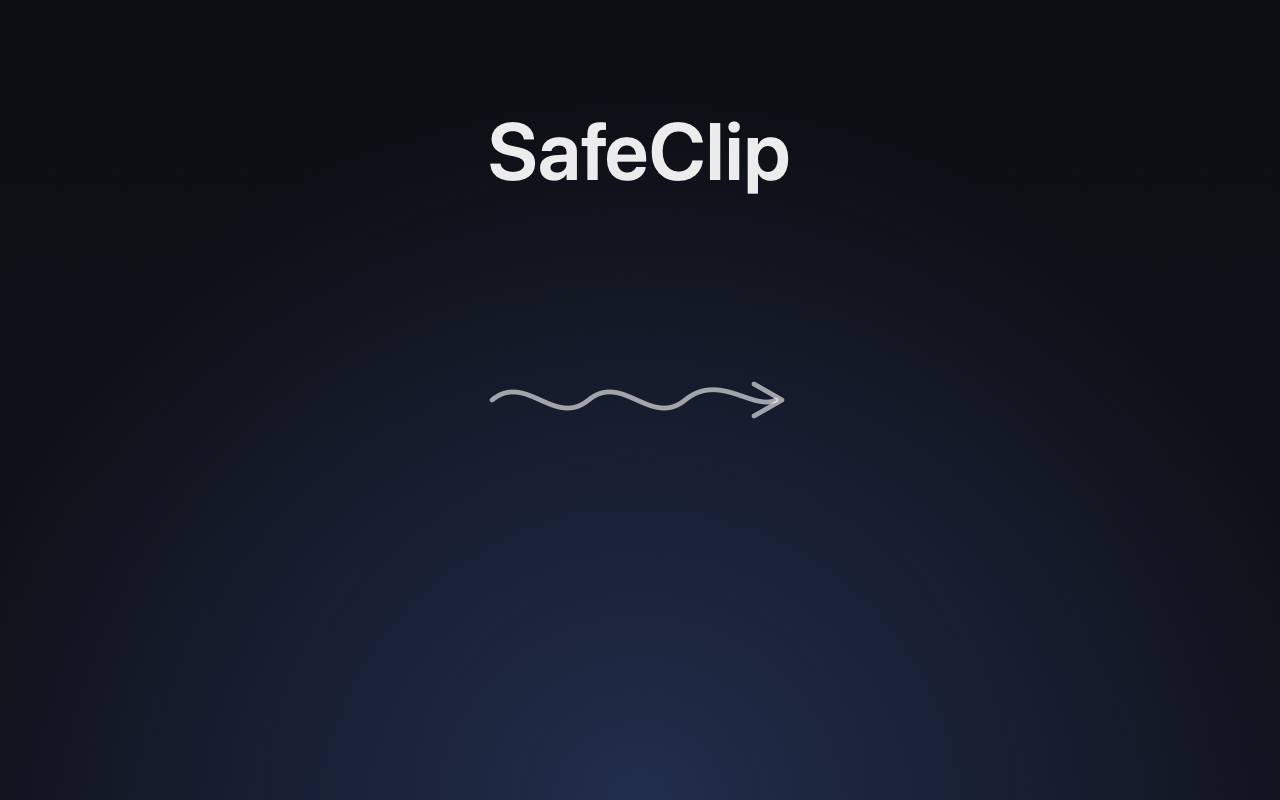
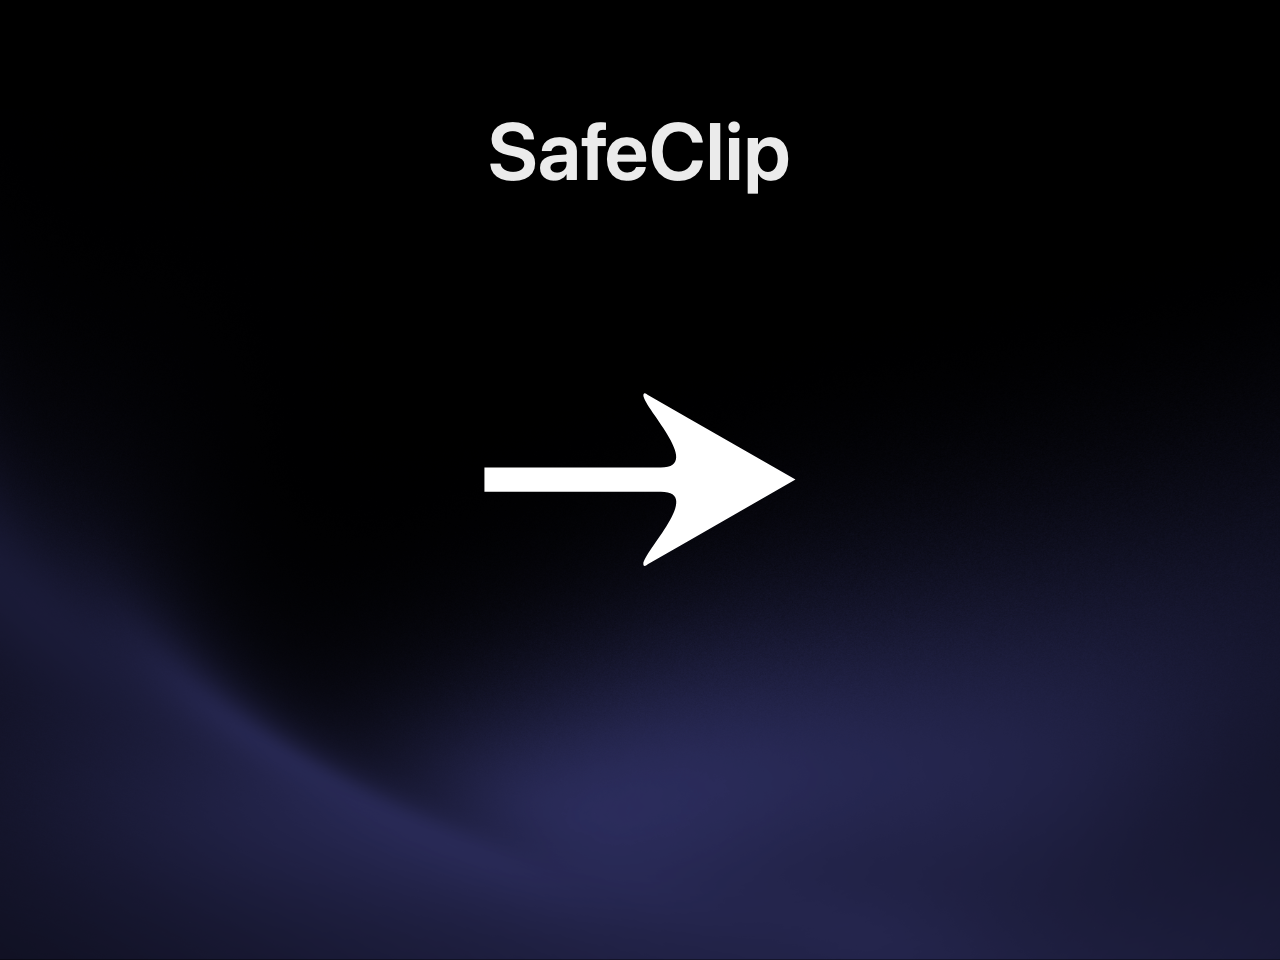
DMG: 4:3 installer window + owner's hand-made background
Take the styled .dmg window from 640×400 (16:10) to a 640×480 pt content area
(exact 4:3), with the icon row dropped to the true vertical centre. release.sh
window bounds → {200,120,840,628} and icon positions → {160,240}/{480,240};
dmg_background.swift geometry → H 480 / iconCenterY 240, kept in lockstep.

The committed background is now the owner's hand-made artwork (solid arrow +
glow) with the "SafeClip" wordmark composited on in the system font (SF Pro
semibold), matching the previous generator's font/size/position. Noted in the
generator header that running it overwrites the hand-made art.

Changed region(s): [[0.125, 0.125, 0.8125, 0.75], [0.4375, 0.7188, 0.9062, 0.875], [0.0, 0.5625, 0.375, 0.9062]]

diff --git a/Scripts/dmg_background.swift b/Scripts/dmg_background.swift
@@ -1,8 +1,14 @@
 #!/usr/bin/swift
-// Renders the SafeClip .dmg background image used by Scripts/release.sh when it
-// lays out the installer window (the "drag SafeClip → Applications" canvas).
-// Output is deterministic and committed to the repo (Scripts/assets/), so it's
-// reviewable and the release script never depends on a design tool.
+// Renders a SafeClip .dmg background image for Scripts/release.sh's installer
+// window (the "drag SafeClip → Applications" canvas).
+//
+// ⚠ HEADS UP: the committed Scripts/assets/dmg-background@2x.png is now the
+// OWNER'S HAND-MADE artwork (a solid arrow + glow, with the "SafeClip" wordmark
+// composited on in the system font). Running this script OVERWRITES it with the
+// schematic squiggle-arrow version — only do that if you deliberately want to
+// replace the hand-made art. This file is kept accurate mainly as the geometry
+// source of truth (W/H + icon centres) that MUST stay in lockstep with
+// release.sh's window bounds; the output is otherwise a fallback/reference.
 //
 // It draws the dark canvas, the "SafeClip" wordmark, and a hand-drawn squiggly
 // arrow pointing from where Finder places the app icon toward the Applications
@@ -15,10 +21,11 @@
 import AppKit
 
 // ── Geometry (points). Keep in lockstep with release.sh's window bounds. ──────
-let W = 640, H = 400
+// 640×480 pt content = a 4:3 window; rendered @2x ⇒ a 1280×960 px background.
+let W = 640, H = 480
 let scale = 2 // @2x for retina Finder windows
-let iconCenterY = 200.0 // matches the AppleScript icon Y (top-left origin ⇒ same middle)
-let appIconX = 160.0
+let iconCenterY = 240.0 // vertical centre of the 4:3 content (matches AppleScript icon Y)
+let appIconX = 160.0 // symmetric about the 320 centre ⇒ the icon pair is centred
 let appsIconX = 480.0
 
 let outPath = CommandLine.arguments.count > 1
